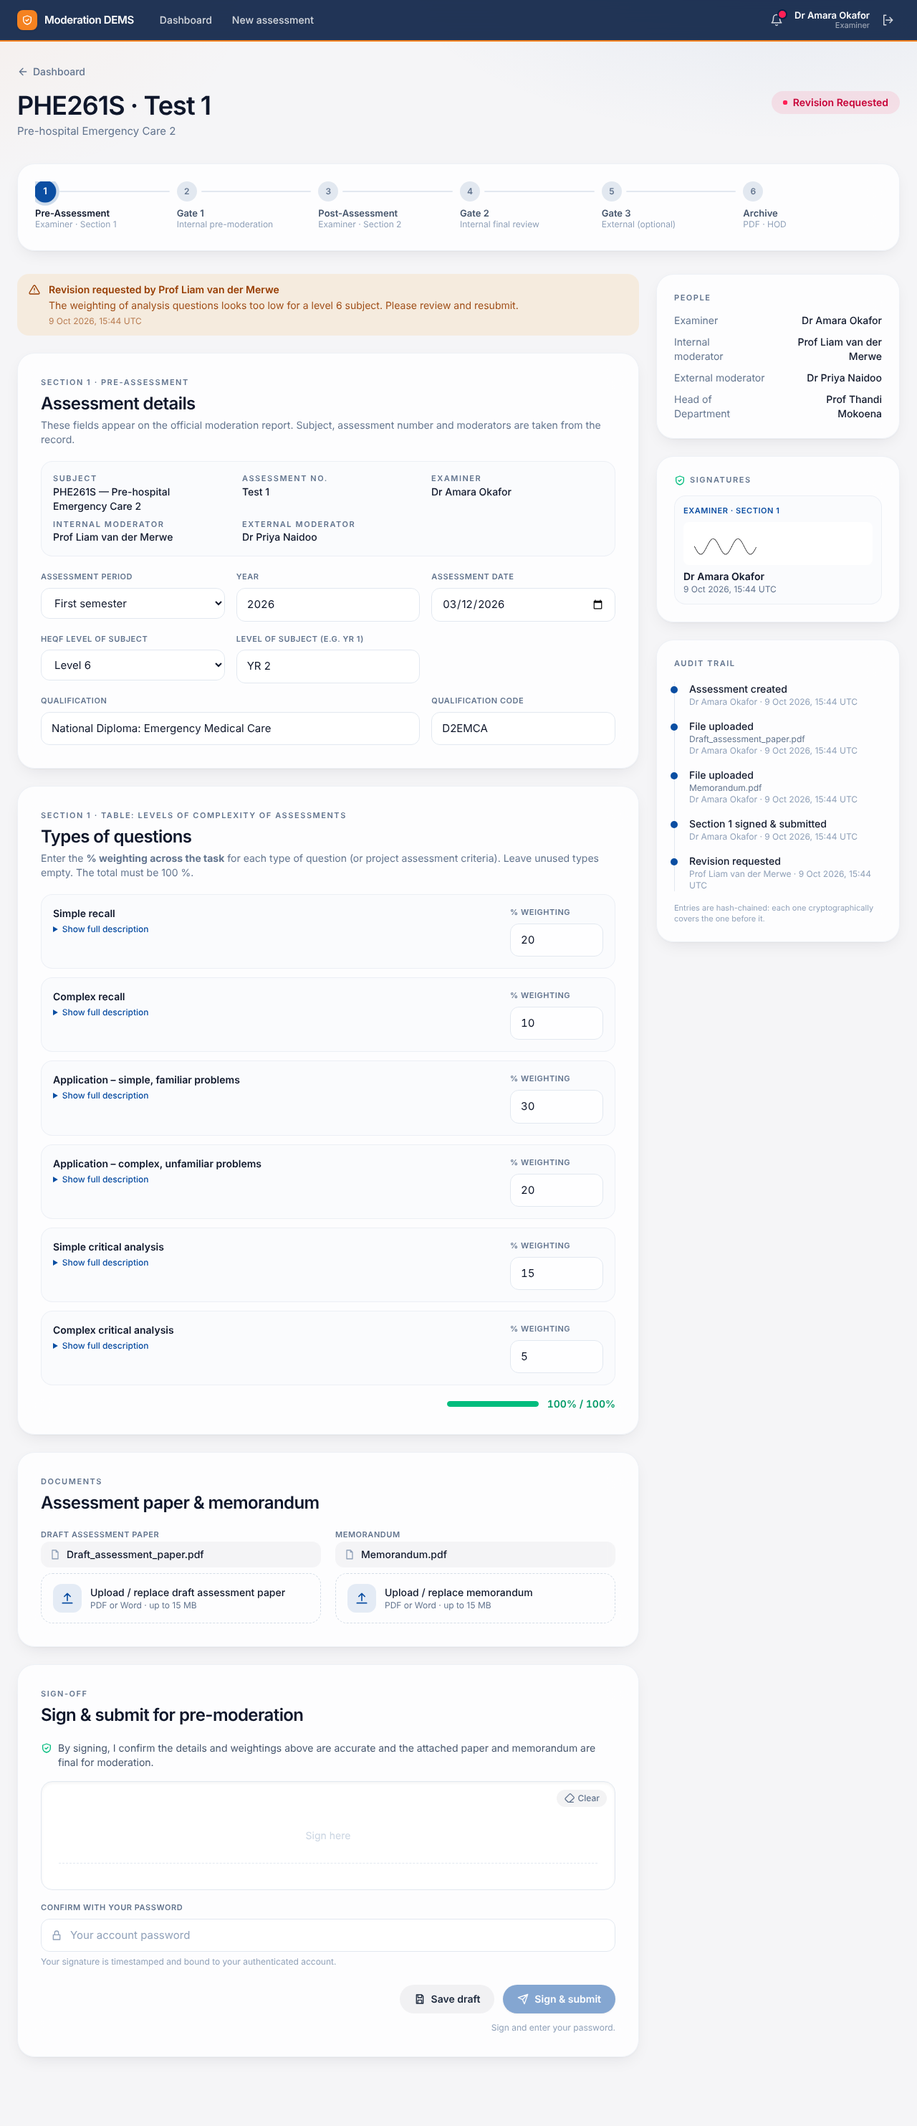
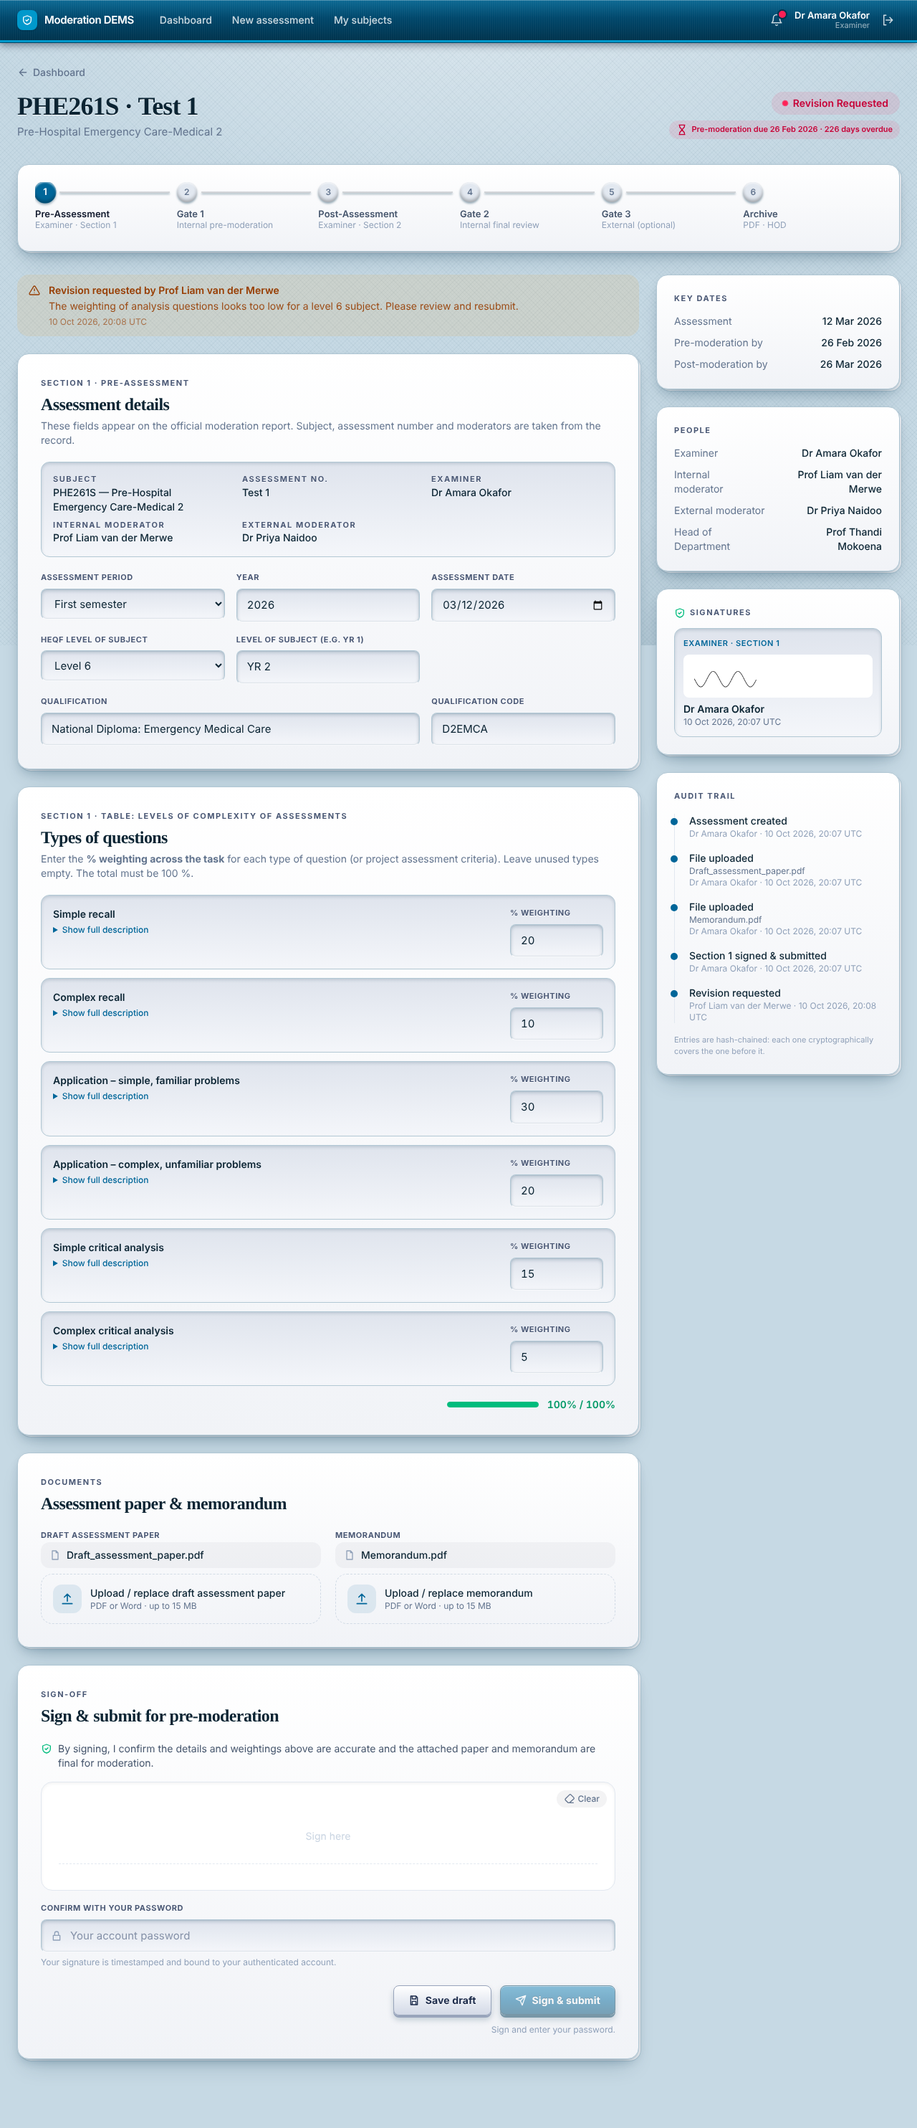
Skeuomorphic redesign in the official CPUT blue palette
Paper-sheet cards, brushed header, raised keys, debossed fields, glossy
stepper; Dark Blue #006699, Mid Blue #0099CC, Sea Blue #66CCCC replace the
earlier navy/orange. Screenshots retaken.

Claude-Session: https://claude.ai/code/session_01KMAi7XbmWaGJHSxj4HaG4y

diff --git a/resources/css/app.css b/resources/css/app.css
@@ -7,16 +7,17 @@
 
 @theme {
     --font-sans: -apple-system, BlinkMacSystemFont, 'SF Pro Text', Inter, system-ui, 'Segoe UI', Roboto, sans-serif;
-    --font-display: 'SF Pro Display', -apple-system, BlinkMacSystemFont, Inter, system-ui, sans-serif;
+    --font-display: 'Iowan Old Style', 'Palatino Linotype', Palatino, 'Book Antiqua', Georgia, serif;
 
-    --color-accent: #0b4ea2;
-    --color-accent-dark: #6aa9ff;
-    --color-brand: #f58220;
-    --color-brand-soft: #fff3e6;
-    --color-navy: #0a1f44;
+    /* CPUT palette — change the values here to restyle the whole platform */
+    --color-accent: #006699;
+    --color-accent-dark: #66cccc;
+    --color-brand: #0099cc;
+    --color-brand-soft: #e6f6fb;
+    --color-navy: #00334d;
 
-    --shadow-card: 0 1px 2px rgba(15, 23, 42, 0.04), 0 8px 24px -8px rgba(15, 23, 42, 0.1);
-    --shadow-lift: 0 2px 4px rgba(15, 23, 42, 0.05), 0 18px 40px -12px rgba(15, 23, 42, 0.18);
+    --shadow-card: 0 1px 0 #fff inset, 0 1px 1px rgba(0, 51, 77, .12), 0 6px 14px -4px rgba(0, 51, 77, .22), 0 18px 32px -14px rgba(0, 51, 77, .28);
+    --shadow-lift: 0 1px 0 #fff inset, 0 2px 3px rgba(0, 51, 77, .16), 0 14px 26px -6px rgba(0, 51, 77, .3), 0 30px 44px -18px rgba(0, 51, 77, .34);
 
     --animate-pulse-ring: pulse-ring 2s ease-out infinite;
     @keyframes pulse-ring {
@@ -26,38 +27,162 @@
     }
 }
 
+/* ── Skeuomorphic surface tokens ─────────────────────────────────────────── */
+:root {
+    --desk: #c6d9e4;
+    --desk-grain: rgba(0, 51, 77, .035);
+    --paper-hi: #ffffff;
+    --paper-lo: #f1f3f7;
+    --paper-edge: #b1c7d4;
+    --well-hi: #dfe4ed;
+    --well-lo: #f4f6fa;
+    --ink: #0b2433;
+    --emboss: 0 1px 0 rgba(255, 255, 255, .9);
+}
+@media (prefers-color-scheme: dark) {
+    :root {
+        --desk: #0d1117;
+        --desk-grain: rgba(255, 255, 255, .025);
+        --paper-hi: #2a3243;
+        --paper-lo: #1d2432;
+        --paper-edge: #0a0e16;
+        --well-hi: #0b0f17;
+        --well-lo: #1a2130;
+        --ink: #e8ecf5;
+        --emboss: 0 -1px 0 rgba(0, 0, 0, .7);
+    }
+}
+
 @layer base {
     :root { color-scheme: light dark; }
     html { -webkit-font-smoothing: antialiased; text-rendering: optimizeLegibility; }
     body {
-        @apply bg-[#f5f5f7] font-sans text-[15px] leading-relaxed text-slate-900 dark:bg-black dark:text-zinc-100;
+        @apply font-sans text-[15px] leading-relaxed;
+        color: var(--ink);
+        background-color: var(--desk);
+        /* a woven desk surface: fine crossed lines over a soft vignette */
         background-image:
-            radial-gradient(60rem 30rem at 85% -10%, rgba(11, 78, 162, 0.08), transparent 60%),
-            radial-gradient(50rem 28rem at -10% 0%, rgba(245, 130, 32, 0.06), transparent 60%);
+            repeating-linear-gradient(45deg, var(--desk-grain) 0 1px, transparent 1px 4px),
+            repeating-linear-gradient(-45deg, var(--desk-grain) 0 1px, transparent 1px 4px),
+            radial-gradient(70rem 36rem at 50% -8%, rgba(255, 255, 255, .45), transparent 65%),
+            radial-gradient(60rem 30rem at 50% 115%, rgba(0, 51, 77, .22), transparent 70%);
         background-attachment: fixed;
     }
-    ::selection { background: rgba(11, 78, 162, 0.22); }
-    h1, h2, h3 { @apply font-display tracking-tight; }
+    ::selection { background: rgba(0, 153, 204, 0.3); }
+    h1, h2, h3 { @apply font-display tracking-tight; text-shadow: var(--emboss); }
     button:not(:disabled), [role='button'] { cursor: pointer; }
-    :focus-visible { @apply outline-none ring-4 ring-accent/25; }
+    :focus-visible { @apply outline-none; box-shadow: 0 0 0 3px rgba(0, 153, 204, .55), 0 0 0 5px rgba(0, 153, 204, .2); }
     [x-cloak] { display: none !important; }
 }
 
-@utility card { @apply rounded-3xl border border-slate-200/60 bg-white/80 shadow-card backdrop-blur-xl dark:border-white/10 dark:bg-zinc-900/60; }
-@utility card-soft { @apply rounded-2xl border border-slate-200/60 bg-slate-50/70 dark:border-white/10 dark:bg-white/5; }
-@utility glass-header { @apply sticky top-0 z-40 border-b-2 border-brand bg-navy/90 text-white backdrop-blur-md; }
+/* A sheet of paper resting on the desk, with a stitched-in highlight and a stacked-sheet edge. */
+@utility card {
+    @apply rounded-2xl;
+    border: 1px solid var(--paper-edge);
+    background: linear-gradient(180deg, var(--paper-hi), var(--paper-lo));
+    box-shadow: var(--shadow-card), 3px 3px 0 -1px var(--paper-lo), 3px 3px 0 0 var(--paper-edge);
+}
+/* A recessed tray / well inside a sheet. */
+@utility card-soft {
+    @apply rounded-xl;
+    border: 1px solid var(--paper-edge);
+    background: linear-gradient(180deg, var(--well-hi), var(--well-lo));
+    box-shadow: inset 0 2px 4px rgba(0, 51, 77, .16), inset 0 -1px 0 rgba(255, 255, 255, .6);
+}
+/* Brushed-navy rail with an orange binding along the bottom edge. */
+@utility glass-header {
+    @apply sticky top-0 z-40 text-white;
+    background:
+        repeating-linear-gradient(90deg, rgba(255, 255, 255, .035) 0 1px, transparent 1px 3px),
+        linear-gradient(180deg, #0d6a94 0%, #00476b 45%, #00334d 100%);
+    border-bottom: 3px solid var(--color-brand);
+    box-shadow: inset 0 1px 0 rgba(255, 255, 255, .28), 0 4px 10px rgba(5, 15, 40, .45), 0 1px 0 #005f80;
+}
+/* Debossed input: it looks pressed into the page. */
 @utility field {
-        @apply w-full rounded-xl border border-slate-200 bg-white/80 px-3.5 py-2.5 text-[15px] outline-none transition
-            placeholder:text-slate-400 focus:border-accent focus:ring-4 focus:ring-accent/15 disabled:opacity-60
-            dark:border-white/10 dark:bg-white/5 dark:placeholder:text-zinc-500 dark:focus:border-accent-dark dark:focus:ring-accent-dark/20;
-    }
-@utility label { @apply mb-1.5 block text-[11px] font-semibold uppercase tracking-wider text-slate-500 dark:text-zinc-400; }
-@utility btn { @apply inline-flex select-none items-center justify-center gap-2 rounded-full px-5 py-2.5 text-sm font-semibold transition active:scale-[.98] disabled:pointer-events-none disabled:opacity-50; }
-@utility btn-primary { @apply btn bg-accent text-white shadow-sm hover:brightness-110 dark:bg-accent-dark dark:text-black; }
-@utility btn-brand { @apply btn bg-brand text-white shadow-sm hover:brightness-110; }
-@utility btn-secondary { @apply btn bg-slate-900/5 text-slate-800 hover:bg-slate-900/10 dark:bg-white/10 dark:text-zinc-100 dark:hover:bg-white/15; }
-@utility btn-danger { @apply btn bg-rose-500/10 text-rose-600 hover:bg-rose-500/15 dark:text-rose-400; }
-@utility kicker { @apply text-[11px] font-semibold uppercase tracking-[.14em] text-slate-500 dark:text-zinc-400; }
+    @apply w-full rounded-lg px-3.5 py-2.5 text-[15px] outline-none transition disabled:opacity-60;
+    color: var(--ink);
+    border: 1px solid var(--paper-edge);
+    border-bottom-color: rgba(255, 255, 255, .8);
+    background: linear-gradient(180deg, var(--well-hi), var(--well-lo));
+    box-shadow: inset 0 2px 5px rgba(0, 51, 77, .22), inset 0 0 0 1px rgba(0, 51, 77, .05);
+    &::placeholder { color: #8591a8; }
+    &:focus { border-color: var(--color-brand); box-shadow: inset 0 2px 5px rgba(0, 51, 77, .22), 0 0 0 3px rgba(0, 153, 204, .35); }
+}
+/* Engraved label text. */
+@utility label { @apply mb-1.5 block text-[11px] font-bold uppercase tracking-wider; color: #4a5875; text-shadow: var(--emboss); }
+@utility kicker { @apply text-[11px] font-bold uppercase tracking-[.14em]; color: #4a5875; text-shadow: var(--emboss); }
+@media (prefers-color-scheme: dark) {
+    .label, .kicker { color: #9aa7c2; }
+}
+
+/* Raised keys: gradient face, bevelled top edge, a darker lip underneath that "presses" flat when clicked. */
+@utility btn {
+    @apply inline-flex select-none items-center justify-center gap-2 rounded-lg px-5 py-2.5 text-sm font-bold transition-[transform,box-shadow,filter] disabled:pointer-events-none disabled:opacity-50;
+    letter-spacing: .01em;
+    transform: translateY(0);
+    &:active { transform: translateY(2px); }
+}
+@utility btn-primary {
+    @apply btn text-white;
+    text-shadow: 0 -1px 0 rgba(0, 0, 0, .45);
+    background: linear-gradient(180deg, #1a85b8 0%, #006699 52%, #004d73 100%);
+    border: 1px solid #003c59;
+    box-shadow: inset 0 1px 0 rgba(255, 255, 255, .45), inset 0 -1px 0 rgba(0, 0, 0, .25), 0 3px 0 #003c59, 0 6px 10px rgba(0, 60, 89, .4);
+    &:hover { filter: brightness(1.08); }
+    &:active { box-shadow: inset 0 2px 5px rgba(0, 0, 0, .45), 0 1px 0 #003c59; }
+}
+@utility btn-brand {
+    @apply btn text-white;
+    text-shadow: 0 -1px 0 rgba(0, 60, 90, .55);
+    background: linear-gradient(180deg, #33b5e0 0%, #0099cc 52%, #0083ad 100%);
+    border: 1px solid #006b8f;
+    box-shadow: inset 0 1px 0 rgba(255, 255, 255, .55), inset 0 -1px 0 rgba(0, 60, 90, .25), 0 3px 0 #006b8f, 0 6px 10px rgba(0, 107, 143, .4);
+    &:hover { filter: brightness(1.06); }
+    &:active { box-shadow: inset 0 2px 5px rgba(0, 50, 80, .5), 0 1px 0 #006b8f; }
+}
+@utility btn-secondary {
+    @apply btn;
+    color: #1b2a4a;
+    text-shadow: 0 1px 0 rgba(255, 255, 255, .9);
+    background: linear-gradient(180deg, #ffffff 0%, #e6eaf2 55%, #d3d9e6 100%);
+    border: 1px solid #98a4bb;
+    box-shadow: inset 0 1px 0 #fff, 0 3px 0 #98a4bb, 0 6px 9px rgba(0, 51, 77, .22);
+    &:hover { filter: brightness(1.03); }
+    &:active { box-shadow: inset 0 2px 4px rgba(0, 51, 77, .3), 0 1px 0 #98a4bb; }
+}
+@utility btn-danger {
+    @apply btn;
+    color: #8c1d33;
+    text-shadow: 0 1px 0 rgba(255, 255, 255, .8);
+    background: linear-gradient(180deg, #fff1f3 0%, #fbd3da 100%);
+    border: 1px solid #d98a99;
+    box-shadow: inset 0 1px 0 #fff, 0 3px 0 #d98a99, 0 6px 9px rgba(140, 29, 51, .2);
+    &:active { box-shadow: inset 0 2px 4px rgba(140, 29, 51, .35), 0 1px 0 #d98a99; }
+}
+@media (prefers-color-scheme: dark) {
+    .btn-secondary { color: #e8ecf5; text-shadow: 0 -1px 0 rgba(0, 0, 0, .6); background: linear-gradient(180deg, #3a4560, #2a3349 55%, #212a3d); border-color: #0a0e16; box-shadow: inset 0 1px 0 rgba(255, 255, 255, .16), 0 3px 0 #0a0e16, 0 6px 9px rgba(0, 0, 0, .5); }
+    .btn-danger { color: #ffb4c0; text-shadow: 0 -1px 0 rgba(0, 0, 0, .6); background: linear-gradient(180deg, #4a2530, #381a24); border-color: #14080c; box-shadow: inset 0 1px 0 rgba(255, 255, 255, .12), 0 3px 0 #14080c; }
+    .btn-primary { background: linear-gradient(180deg, #4fb8d6 0%, #2a9bc4 52%, #1d84aa 100%); }
+}
+
+/* Navy leather-look plate with a stitched inner border, used for the dashboard hero. */
+.hero-plate {
+    border-radius: 1rem;
+    border: 1px solid #001a26;
+    background: linear-gradient(180deg, #0e5c80 0%, #00334d 55%, #002233 100%);
+    box-shadow: inset 0 1px 0 rgba(255, 255, 255, .3), inset 0 0 0 7px rgba(255, 255, 255, .03), var(--shadow-lift), 0 0 0 1px rgba(255, 255, 255, .04);
+}
+.hero-plate::after { content: ''; position: absolute; inset: 9px; border: 1.5px dashed rgba(0, 153, 204, .45); border-radius: .6rem; pointer-events: none; }
+
+/* Progress stepper: domed, glossy beads. */
+ol[aria-label='Moderation progress'] li > div > span.rounded-full {
+    box-shadow: inset 0 2px 2px rgba(255, 255, 255, .55), inset 0 -3px 4px rgba(0, 0, 0, .28), 0 2px 3px rgba(0, 51, 77, .4);
+    --tw-ring-shadow: 0 0 #0000;
+}
+/* Status pills and filter chips get the same raised-lozenge treatment. */
+.rounded-3xl { border-radius: 1rem; }
+.rounded-4xl { border-radius: 1rem; }
 
 /* Word document review */
 .doc-body { font-family: Georgia, 'Times New Roman', serif; line-height: 1.6; font-size: 15px; }

diff --git a/resources/views/admin/index.blade.php b/resources/views/admin/index.blade.php
@@ -9,7 +9,7 @@
         <div><label class="label">Full name</label><input name="name" required class="field" value="{{ old('name') }}"></div>
         <div><label class="label">E-mail</label><input name="email" type="email" required class="field" value="{{ old('email') }}"></div>
         <div class="sm:col-span-2"><label class="label">Roles <span class="font-normal text-slate-400">(tick every role this person needs)</span></label>
-          <div class="mt-1 flex flex-wrap gap-x-5 gap-y-1.5 text-sm">@foreach (\App\Enums\Role::cases() as $r)<label class="inline-flex items-center gap-2"><input type="checkbox" name="roles[]" value="{{ $r->value }}" class="h-4 w-4 rounded accent-[#0b4ea2]" @checked(in_array($r->value, old('roles', []), true))> {{ $r->label() }}</label>@endforeach</div>
+          <div class="mt-1 flex flex-wrap gap-x-5 gap-y-1.5 text-sm">@foreach (\App\Enums\Role::cases() as $r)<label class="inline-flex items-center gap-2"><input type="checkbox" name="roles[]" value="{{ $r->value }}" class="h-4 w-4 rounded accent-[#006699]" @checked(in_array($r->value, old('roles', []), true))> {{ $r->label() }}</label>@endforeach</div>
           @error('roles')<p class="mt-1 text-xs text-rose-600">{{ $message }}</p>@enderror</div>
         <div><label class="label">Department</label><input name="department" class="field" value="{{ old('department') }}"></div>
       </div>
@@ -40,7 +40,7 @@
       <ul class="divide-y divide-slate-200/60 text-sm dark:divide-white/10">@foreach ($users as $u)<li class="py-2.5"><div class="flex justify-between gap-3"><span class="min-w-0"><span class="font-medium">{{ $u->name }}</span> <span class="truncate text-slate-400">{{ $u->email }}</span></span><span class="shrink-0 text-slate-500">{{ $u->roleLabels() }}</span></div>
         <details class="mt-1"><summary class="cursor-pointer select-none text-xs font-medium text-accent dark:text-accent-dark">Edit roles</summary>
           <form method="POST" action="{{ route('admin.roles', $u) }}" class="mt-2 flex flex-wrap items-center gap-x-4 gap-y-1.5 text-sm">@csrf @method('PATCH')
-            @foreach (\App\Enums\Role::cases() as $r)<label class="inline-flex items-center gap-2"><input type="checkbox" name="roles[]" value="{{ $r->value }}" class="h-4 w-4 rounded accent-[#0b4ea2]" @checked($u->hasRole($r))> {{ $r->label() }}</label>@endforeach
+            @foreach (\App\Enums\Role::cases() as $r)<label class="inline-flex items-center gap-2"><input type="checkbox" name="roles[]" value="{{ $r->value }}" class="h-4 w-4 rounded accent-[#006699]" @checked($u->hasRole($r))> {{ $r->label() }}</label>@endforeach
             <button class="btn-secondary !py-1 text-xs">Save</button></form></details></li>@endforeach</ul></section>
   </div>
 </div>

diff --git a/resources/views/assessments/panels/final-review.blade.php b/resources/views/assessments/panels/final-review.blade.php
@@ -57,7 +57,7 @@ $willComplete = ! $external && ! $a->external_moderator_id;
   <section class="card p-6 sm:p-8">
     <p class="kicker">Declaration & sign-off</p><h2 class="mt-1 text-xl font-semibold">{{ $willComplete ? 'Final signature & completion' : 'Signature' }}</h2>
     <div class="mt-4"><label for="final-comments" class="label">General comments <span class="normal-case tracking-normal text-slate-400">(optional)</span></label><textarea id="final-comments" rows="2" class="field" x-model="comments"></textarea></div>
-    <label class="mt-5 flex cursor-pointer items-center gap-3 text-sm font-medium"><input type="checkbox" class="h-5 w-5 rounded-md accent-[#0b4ea2]" x-model="consensus"> {{ $external ? 'Consensus reached with the examiner' : 'Consensus reached between the examiner and the moderator(s)' }}</label>
+    <label class="mt-5 flex cursor-pointer items-center gap-3 text-sm font-medium"><input type="checkbox" class="h-5 w-5 rounded-md accent-[#006699]" x-model="consensus"> {{ $external ? 'Consensus reached with the examiner' : 'Consensus reached between the examiner and the moderator(s)' }}</label>
     <div class="mt-5"><x-signoff statement="By signing, I declare that consensus has been reached and the answers above are my honest assessment." /></div>
     <x-notice tone="info" class="mt-5">
       @if ($external) After your approval the examiner and the Head of Department sign Section 3, then the signed report is archived.

diff --git a/resources/views/assessments/panels/pre-review.blade.php b/resources/views/assessments/panels/pre-review.blade.php
@@ -54,7 +54,7 @@ $cfg = [
     </div>
     <div x-show="approving" x-cloak x-transition class="mt-6 space-y-5 border-t border-slate-200/60 pt-6 dark:border-white/10">
       <div><label class="label" for="pre-comments">General comments <span class="normal-case tracking-normal text-slate-400">(optional)</span></label><textarea id="pre-comments" rows="3" class="field" x-model="comments"></textarea></div>
-      <label class="flex cursor-pointer items-center gap-3 text-sm font-medium"><input type="checkbox" class="h-5 w-5 rounded-md accent-[#0b4ea2]" x-model="consensus"> Consensus reached with the examiner</label>
+      <label class="flex cursor-pointer items-center gap-3 text-sm font-medium"><input type="checkbox" class="h-5 w-5 rounded-md accent-[#006699]" x-model="consensus"> Consensus reached with the examiner</label>
       <x-signoff statement="By signing, I declare that consensus has been reached with the examiner and I approve the assessment." />
       <template x-if="error"><x-notice tone="error"><span x-text="error"></span></x-notice></template>
       <div class="flex justify-end"><button type="button" class="btn-primary" :disabled="!formComplete || !consensus || !sig || busy" @click="approve()"><span x-text="busy === 'approve' ? 'Approving…' : 'Sign & approve'"></span></button></div>

diff --git a/resources/views/dashboard.blade.php b/resources/views/dashboard.blade.php
@@ -9,7 +9,7 @@ $headline = [$S::PendingPreModeration, $S::RevisionRequested, $S::ReadyForPostMo
 $tabs = ['ALL' => ['All', $items->count()], 'ACTION' => ['Needs my action', $actionCount], 'DRAFT' => ['Drafts', $counts['DRAFT'] ?? 0], 'FINAL' => ['Final review', ($counts['PENDING_FINAL_MODERATION'] ?? 0) + ($counts['PENDING_EXTERNAL_MODERATION'] ?? 0) + ($counts['PENDING_SECTION3_SIGNOFF'] ?? 0)]];
 @endphp
 <div x-data="dashboard(@js($meta))" class="space-y-8">
-  <div class="relative overflow-hidden rounded-4xl bg-navy p-8 text-white shadow-lift sm:p-10">
+  <div class="hero-plate relative overflow-hidden bg-navy p-8 text-white sm:p-10">
     <div class="pointer-events-none absolute -right-20 -top-24 h-72 w-72 rounded-full bg-brand/30 blur-3xl"></div>
     <div class="pointer-events-none absolute inset-0 opacity-[.06]" style="background-image:radial-gradient(#fff 1px,transparent 1px);background-size:22px 22px"></div>
     <div class="relative flex flex-wrap items-end justify-between gap-4">

diff --git a/resources/views/my-subjects.blade.php b/resources/views/my-subjects.blade.php
@@ -17,7 +17,7 @@
                 @foreach ($list as $s)
                   <label class="flex cursor-pointer items-start gap-2.5 rounded-xl px-3 py-2 text-sm hover:bg-slate-900/5 dark:hover:bg-white/10"
                     x-show="!q || {{ \Illuminate\Support\Js::from(mb_strtolower($s->code.' '.$s->name.' '.$qual)) }}.includes(q.toLowerCase())">
-                    <input type="checkbox" name="subjects[{{ $role->value }}][]" value="{{ $s->id }}" class="mt-0.5 h-4 w-4 rounded accent-[#0b4ea2]" @checked(in_array($s->id, $chosen[$role->value] ?? [], true))>
+                    <input type="checkbox" name="subjects[{{ $role->value }}][]" value="{{ $s->id }}" class="mt-0.5 h-4 w-4 rounded accent-[#006699]" @checked(in_array($s->id, $chosen[$role->value] ?? [], true))>
                     <span><span class="font-semibold">{{ $s->code }}</span> <span class="text-slate-600 dark:text-zinc-300">{{ $s->name }}</span></span>
                   </label>
                 @endforeach

diff --git a/resources/views/emails/notice.blade.php b/resources/views/emails/notice.blade.php
@@ -4,7 +4,7 @@
     <h1 style="font-size:22px;margin:8px 0 12px;color:#111827">{{ $heading }}</h1>
     <p style="font-size:15px;line-height:1.55;color:#374151">{{ $body }}</p>
     @if ($url)
-      <p style="margin-top:24px"><a href="{{ $url }}" style="background:#f58220;color:#fff;text-decoration:none;padding:11px 20px;border-radius:999px;font-size:14px;font-weight:600">{{ $cta }}</a></p>
+      <p style="margin-top:24px"><a href="{{ $url }}" style="background:#0099cc;color:#fff;text-decoration:none;padding:11px 20px;border-radius:999px;font-size:14px;font-weight:600">{{ $cta }}</a></p>
     @endif
   </div>
 </div>

diff --git a/resources/views/components/app-layout.blade.php b/resources/views/components/app-layout.blade.php
@@ -5,7 +5,7 @@
   <meta charset="utf-8">
   <meta name="viewport" content="width=device-width, initial-scale=1">
   <meta name="csrf-token" content="{{ csrf_token() }}">
-  <meta name="theme-color" content="#0a1f44">
+  <meta name="theme-color" content="#00334d">
   <title>{{ $title }} · Moderation DEMS</title>
   <link rel="icon" href="/favicon.svg" type="image/svg+xml">
   @vite(['resources/css/app.css', 'resources/js/app.js'])

diff --git a/README.md b/README.md
@@ -18,6 +18,10 @@
 | ![Section 3](docs/screenshots/section3-signoff.png) **Section 3 sign-off** — examiner and HOD | ![Multi-role](docs/screenshots/dual-role-dashboard.png) **One person, several roles** (HOD who also examines/moderates) |
 | ![Report](docs/screenshots/report-page-1.png) **Signed PDF report** ([sample](docs/sample-report.pdf)) | ![Dark](docs/screenshots/dark-dashboard.png) **Dark mode** (and fully responsive) |
 
+## Design
+
+A tactile, **skeuomorphic** interface in the official CPUT colours — Dark Blue `#006699`, Mid Blue `#0099CC`, Sea Blue `#66CCCC`: paper-sheet cards on a woven desk, brushed-metal header, raised keys that press down, debossed inputs, glossy progress beads; light and dark modes. All colours live in one place (`resources/css/app.css`, the `@theme` block) so they can be changed centrally.
+
 ## Workflow
 
 | # | Phase / Gate | Actor | Status after |
